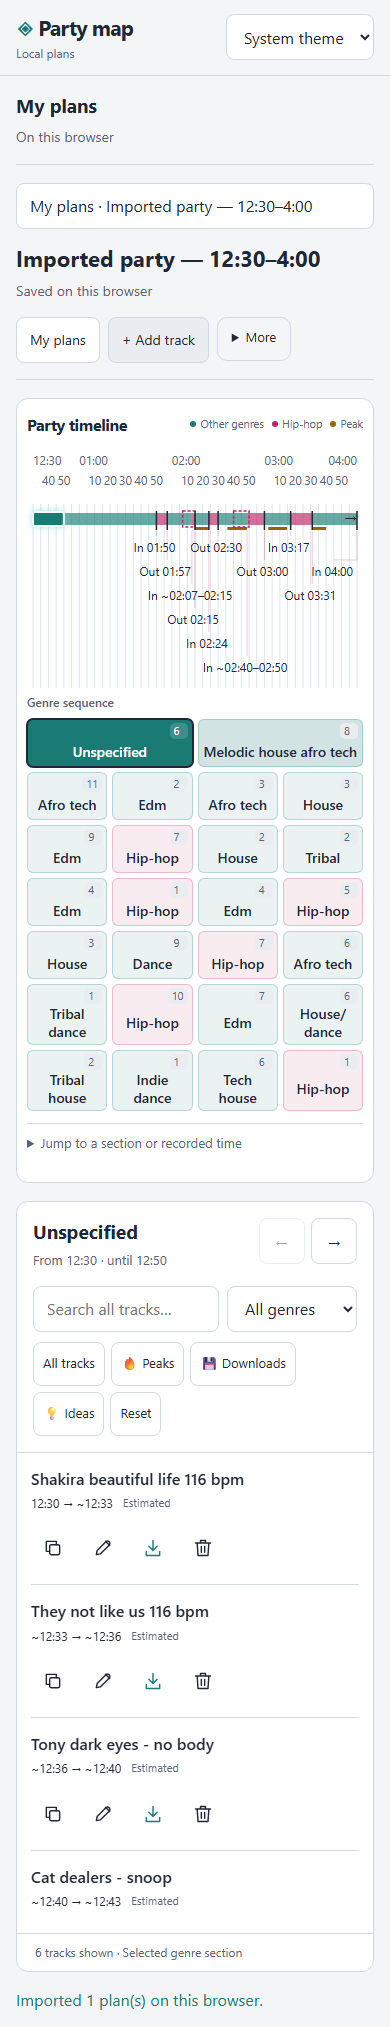
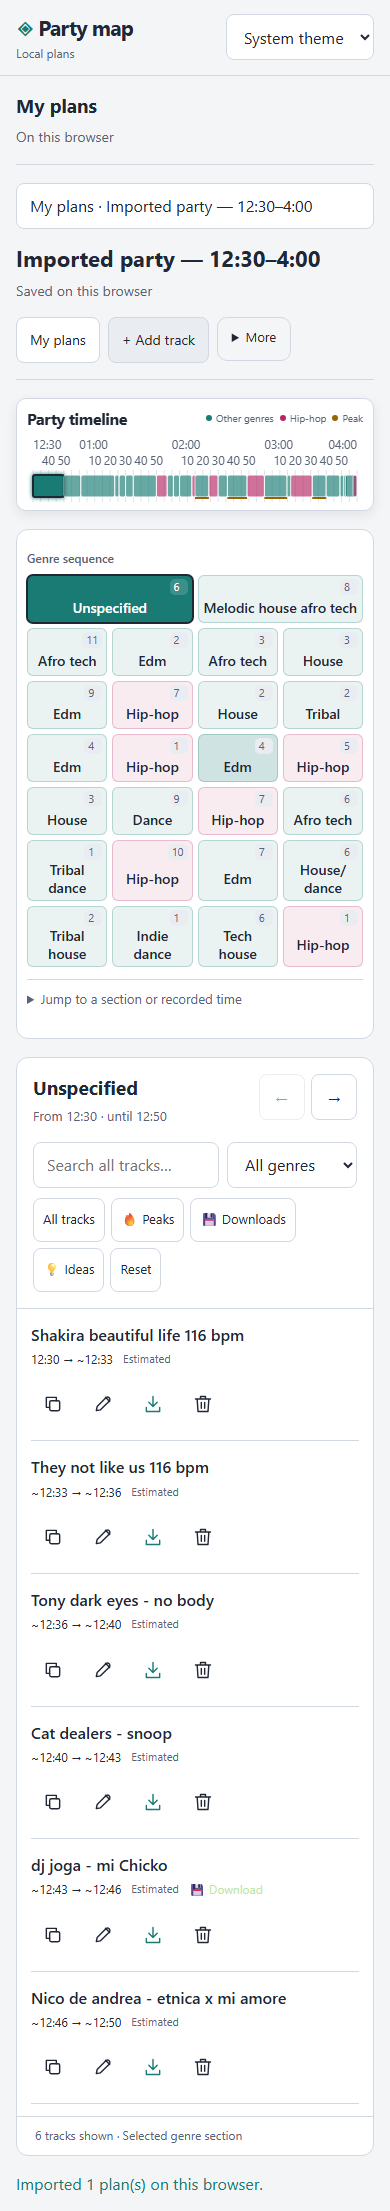
Make timeline ruler sticky, selectable and responsive to track scrolling

diff --git a/src/views/PartyPage.svelte b/src/views/PartyPage.svelte
@@ -2,91 +2,69 @@
   import { onMount } from 'svelte';
   import {formatTime} from '../lib/documents';
   import type { Model } from '../lib/parser';
-  import { annotationLanes, boundary, clock, fullClock, color, hipChanges, isHip, overviewRuns, peakRuns, position } from '../lib/timeline';
+  import { boundary, changeTime, fullClock, color, isHip, position } from '../lib/timeline';
   export let model: Model;
   export let selected: number;
-  export let active: boolean;
+  export let focused = false;
+  export let resetScale: () => void = () => {};
   export let select: (id: number, trackId?: number) => void;
   let mapWidth = 1000;
-  let measure: ((text: string) => number) | undefined;
+  let dock: HTMLElement;
   onMount(() => {
-    const context = document.createElement('canvas').getContext('2d');
-    if (context) {
-      context.font = '12px system-ui, sans-serif';
-      measure = text => context.measureText(text).width + 4;
-    }
+    const parent = dock.closest<HTMLElement>('.cloud-plan');
+    const update = () => parent?.style.setProperty('--timeline-offset', (dock.getBoundingClientRect().height + 16) + 'px');
+    const observer = new ResizeObserver(update);observer.observe(dock);update();
+    return () => {observer.disconnect();parent?.style.removeProperty('--timeline-offset');};
   });
   $: width = Math.max(100, mapWidth - 12);
   $: start = model.blocks[0]?.start ?? 0;
   $: end = Math.max(start,...model.blocks.map(b=>b.end),...model.sections.map(s=>s.end));
-  $: flow = overviewRuns(model);
-  $: peaks = peakRuns(model);
-  $: changes = hipChanges(model);
-  $: annotations = annotationLanes(changes.map(c => ({ anchor: position(c.section.start, start, end, width), width: measure ? measure(c.label) : c.label.length * 8 })), width);
-  $: lanes = Math.max(0, ...annotations.map(a => a.lane + 1));
   $: gridStep = Math.max(5,Math.ceil((end-start)/2000/5)*5);
   $: hourStep = Math.max(60,Math.ceil(52/Math.max(.01,width/Math.max(1,end-start))/60)*60);
   $: step = width < 600 ? 10 : 5;
   $: minuteStep = Math.max(step,Math.ceil(14/Math.max(.01,width/Math.max(1,end-start))/step)*step);
+  $: ticks = !model.blocks.length ? [] : [start, ...Array.from({length:Math.max(0,Math.ceil(end/gridStep)-Math.floor(start/gridStep)-1)},(_,i)=>(Math.floor(start/gridStep)+i+1)*gridStep).filter(t=>t>start&&t<end),...(end>start?[end]:[])];
   $: hours = ticks.filter(t=>t===start||t===end||t%hourStep===0).filter(t=>t===start||t===end||position(t,start,end,width)>42&&width-position(t,start,end,width)>42);
   $: minutes = ticks.filter(t=>t!==start&&t!==end&&t%60!==0&&t%minuteStep===0);
-  $: rulerHeight = 58;
-  $: chartHeight = rulerHeight+34+lanes*24;
-  $: ticks = !model.blocks.length ? [] : [start, ...Array.from({ length: Math.max(0, Math.ceil(end / gridStep) - Math.floor(start / gridStep) - 1) }, (_, i) => (Math.floor(start / gridStep) + i + 1) * gridStep).filter(t => t > start && t < end), ...(end > start ? [end] : [])];
-  $: current = !active ? model.sections.find(s => s.id === selected) : undefined;
+  $: current = model.sections.find(s=>s.id===selected);
+  $: display = model.clock24?formatTime:fullClock;
+  $: next = current ? model.sections[current.id+1] : undefined;
+  $: ending = current ? next?.start===current.end?changeTime(next):current.end>current.start?(current.tracks.at(-1)?.explicitEnd!==undefined?'':'~')+display(current.end):'not recorded' : '';
 </script>
-<section class="overview" aria-labelledby="overview-heading">
+<section class="timeline-dock" bind:this={dock} aria-labelledby="overview-heading">
   <div class="timeline-head">
     <h2 id="overview-heading" tabindex="-1">Party timeline</h2>
     <div class="legend" aria-label="Genre colors"><span><i class="dot" style="--color:var(--cyan)"></i>Other genres</span><span><i class="dot" style="--color:var(--hip)"></i>Hip-hop</span><span><i class="dot" style="--color:var(--fire)"></i>Peak</span></div>
   </div>
   <div class="party-summary" bind:clientWidth={mapWidth}>
-    <svg viewBox={`-6 0 ${width + 12} ${chartHeight}`} style={`height:${chartHeight}px`} role="img" aria-label={`Estimated whole-party time scale, ${model.blocks[0]?.time ?? 'Time not noted'} to ${model.blocks.at(-1)?.time ?? 'Time not noted'}. ${changes.map(c => `${c.entering ? 'Into' : 'Out of'} hip-hop, ${boundary(c.section)}`).join('; ')}. Ending not recorded.`}>
+    <svg viewBox={'-6 0 '+(width+12)+' 66'} style="height:66px" role="group" aria-label="Party time ruler">
       {#if !model.blocks.length}<text class="tick" x="0" y="13">Time not noted</text>{/if}
-      {#if end>start&&width/(end-start)>=4}{#each Array.from({length:Math.max(0,Math.ceil(end)-Math.floor(start))},(_,i)=>Math.floor(start)+i).filter(t=>t>start&&t<end&&t%5!==0) as minute}<line class="minor-grid" x1={position(minute,start,end,width)} x2={position(minute,start,end,width)} y1={rulerHeight-6} y2={chartHeight}/>{/each}{/if}
-      {#each ticks as time}
-       <line class="ruler-grid" x1={position(time,start,end,width)} x2={position(time,start,end,width)} y1={rulerHeight-6} y2={chartHeight}/>
-      {/each}
-      {#each hours as time}
-        <text class="tick ruler-label hour-label" data-minute={time} x={position(time,start,end,width)} y="13" text-anchor={time===end?'end':'start'}>{model.clock24?formatTime(time):fullClock(time)}</text>
-      {/each}
-      {#each minutes as time}
-        <text class="tick ruler-label minute-label" data-minute={time} x={position(time,start,end,width)} y="33" text-anchor="middle">{String(Math.floor(time)%60).padStart(2,'0')}</text>
-      {/each}
-      {#each flow as run}
-        <rect x={position(run.start,start,end,width)} y={rulerHeight+3} width={position(run.end,start,end,width)-position(run.start,start,end,width)} height="12" fill={color(run.genre)} opacity=".65" />
-      {/each}
-      {#each peaks as peak}
-        <rect x={position(peak.start,start,end,width)} y={rulerHeight+17} width={Math.max(2,position(peak.end,start,end,width)-position(peak.start,start,end,width))} height="3" fill="var(--fire)" />
-      {/each}
-      {#if current}
-        <rect class="overview-selection" data-selected={current.id} x={Math.max(0,position(current.start,start,end,width)-1)} y={rulerHeight+2} width={Math.max(2,position(current.end,start,end,width)-position(current.start,start,end,width))} height="14" rx="2" fill={color(current.genre)} />
-      {/if}
-      {#each changes as change, i}
-        {@const a = annotations[i]}
-        {@const anchor = position(change.section.start,start,end,width)}
-        <g class="hip-change" data-entering={change.entering} aria-label={`${change.entering ? 'Into' : 'Out of'} hip-hop, ${boundary(change.section)}`}>
-          <title>{change.entering ? 'Into' : 'Out of'} hip-hop · {boundary(change.section)}{change.section.start === change.section.end ? ' · ending not noted' : ''}</title>
-          {#if !change.section.exact}
-            <rect class="uncertain-range" x={position(change.section.boundStart,start,end,width)} y={rulerHeight+1} width={Math.max(2,position(change.section.boundEnd,start,end,width)-position(change.section.boundStart,start,end,width))} height="16" />
-          {:else}<line class="switch-marker" x1={anchor} x2={anchor} y1={rulerHeight+1} y2={rulerHeight+20} />{/if}
-          <path class="switch-guide" d={`M${anchor},${rulerHeight+21} V${rulerHeight+26+a.lane*24} L${a.left+a.width/2},${rulerHeight+26+a.lane*24}`} />
-          <text class="switch-label" x={a.left} y={rulerHeight+42+a.lane*24}>{change.label}</text>
+      {#each ticks as time}<line class="ruler-grid" x1={position(time,start,end,width)} x2={position(time,start,end,width)} y1="34" y2="66"/>{/each}
+      {#if end>start&&width/(end-start)>=4}{#each Array.from({length:Math.max(0,Math.ceil(end)-Math.floor(start))},(_,i)=>Math.floor(start)+i).filter(t=>t>start&&t<end&&t%5!==0) as minute}<line class="minor-grid" x1={position(minute,start,end,width)} x2={position(minute,start,end,width)} y1="34" y2="66"/>{/each}{/if}
+      {#each hours.filter(t=>!focused||t%60===0) as time}<text class="tick ruler-label hour-label" data-minute={time} x={position(time,start,end,width)} y="13" text-anchor={time===end?'end':'start'}>{display(time)}</text>{/each}
+      {#if !focused}{#each minutes as time}<text class="tick ruler-label minute-label" data-minute={time} x={position(time,start,end,width)} y="29" text-anchor="middle">{String(Math.floor(time)%60).padStart(2,'0')}</text>{/each}{/if}
+      {#each model.sections as section}
+        {@const left=position(section.start,start,end,width)}
+        {@const barWidth=Math.max(4,position(section.end,start,end,width)-left)}
+        <g class="ruler-section" class:lit={selected===section.id} data-ruler-section={section.id} role="button" tabindex="0" aria-label={section.genre+', '+boundary(section)+', open '+section.tracks.length+' tracks'} aria-pressed={selected===section.id} onclick={()=>select(section.id)} onkeydown={e=>{if(e.key==='Enter'||e.key===' '){e.preventDefault();select(section.id);}}}>
+          <title>{section.genre} · {boundary(section)} · {section.tracks.length} tracks</title>
+          <rect class="ruler-hit" x={Math.min(width-4,left)} y="34" width={barWidth} height="32" fill="transparent"/>
+          <rect class="ruler-bar" x={Math.min(width-4,left)} y="39" width={barWidth} height="22" rx="2" fill={color(section.genre)}/>
+          {#if section.tracks.some(t=>t.isBanger)}<line x1={left} x2={Math.min(width,left+barWidth)} y1="62" y2="62" stroke="var(--fire)" stroke-width="2"/>{/if}
         </g>
       {/each}
-      {#if model.sections.some(s => s.end === s.start)}<text class="open-end" x={width} y={rulerHeight+13} text-anchor="end"><title>Ending not recorded</title>→</text>{/if}
     </svg>
   </div>
+  {#if focused&&current}<div class="ruler-focus"><span dir="auto">{current.genre}</span><span class="selected-times" dir="ltr">In {changeTime(current)} · Out {ending}</span><button class="scale-reset" aria-label="Show full time scale" onclick={resetScale}>Full scale</button></div>{/if}
+</section>
+<section class="overview" aria-label="Genre sections">
   <h3 class="sequence-heading">Genre sequence</h3>
   <div class="section-buttons" role="group" aria-label="Genre sequence">
     {#each model.sections as s}
-      <button data-section={s.id} class:wide={s.genre.length > 15 || s.genre === 'Unspecified'} class:terminal-section={s.start === s.end} class:lit={!active && selected === s.id} style={`--genre:${color(s.genre)}`} aria-label={`${s.genre}, ${boundary(s)}, open ${s.tracks.length} tracks`} aria-pressed={!active && selected === s.id} title={`${boundary(s)}${s.start === s.end ? ' · ending not noted' : ''}`} onclick={() => select(s.id)}>
-        <span class="genre-name" dir="auto">{isHip(s.genre) ? 'Hip-hop' : s.genre}</span><span class="section-count" aria-label={s.tracks.length+' tracks'}>{s.tracks.length}</span>
+      <button data-section={s.id} class:wide={s.genre.length>15||s.genre==='Unspecified'} class:terminal-section={s.start===s.end} class:lit={selected===s.id} style={'--genre:'+color(s.genre)} aria-label={s.genre+', '+boundary(s)+', open '+s.tracks.length+' tracks'} aria-pressed={selected===s.id} title={boundary(s)+(s.start===s.end?' · ending not noted':'')} onclick={()=>select(s.id)}>
+        <span class="genre-name" dir="auto">{isHip(s.genre)?'Hip-hop':s.genre}</span><span class="section-count" aria-label={s.tracks.length+' tracks'}>{s.tracks.length}</span>
       </button>
     {/each}
   </div>
-  <details><summary>Jump to a section or recorded time</summary>
-    <p class="timing-key">Dotted outline: hip-hop changes somewhere within that time range. The notes do not give an exact minute.</p>
-    <div class="time-jumps" role="group" aria-label="Every exact time marker from the notes">{#each model.blocks.filter(b => b.tracks.length) as b}<button onclick={() => select(b.tracks[0].sectionId,b.tracks[0].id)}>{b.time}</button>{/each}</div>
-  </details>
+  <details><summary>Jump to a section or recorded time</summary><div class="time-jumps" role="group" aria-label="Every exact time marker from the notes">{#each model.blocks.filter(b=>b.tracks.length) as b}<button onclick={()=>select(b.tracks[0].sectionId,b.tracks[0].id)}>{b.time}</button>{/each}</div></details>
 </section>

diff --git a/tests/browser/planner.spec.ts b/tests/browser/planner.spec.ts
@@ -2,15 +2,32 @@ import {test,expect} from './fixtures';import {mock,login} from './cloud-fixture
 async function start(page:any,name:string){const offline=name.startsWith('offline');if(!offline)await mock(page);await page.goto(offline?pathToFileURL(resolve('dist/party-map.html')).href:'http://127.0.0.1:4180');if(!offline)await login(page,'a@example.test');const toggle=page.locator('.mobile-plans');if(await toggle.isVisible())await toggle.click();}
 async function original(page:any){await page.getByRole('button',{name:'Import original party'}).click();await page.getByRole('button',{name:/Import to (account|browser)/}).click();}
 test('empty-first shell, original template, full ruler and timeline above tracks',async({page},info)=>{
- await start(page,info.project.name);await expect(page.locator('.overview')).toHaveCount(0);await original(page);await expect(page.locator('.section-buttons button')).toHaveCount(26);await expect(page.locator('.hip-change')).toHaveCount(11);await expect(page.locator('.uncertain-range')).toHaveCount(2);await expect(page.locator('.ruler-label')).toHaveCount(info.project.name.includes('phone')?22:43);await expect(page.locator('.tick').first()).toHaveText('12:30');await expect(page.locator('.hour-label').last()).toHaveText('04:00');
+ await start(page,info.project.name);await expect(page.locator('.overview')).toHaveCount(0);await original(page);await expect(page.locator('.section-buttons button')).toHaveCount(26);await expect(page.locator('.ruler-section')).toHaveCount(26);await expect(page.locator('.hip-change,.uncertain-range')).toHaveCount(0);await expect(page.locator('.ruler-label')).toHaveCount(info.project.name.includes('phone')?22:43);await expect(page.locator('.tick').first()).toHaveText('12:30');await expect(page.locator('.hour-label').last()).toHaveText('04:00');
  const minuteRows=await page.locator('.minute-label').evaluateAll(labels=>new Set(labels.map(l=>Math.round(l.getBoundingClientRect().top))).size);expect(minuteRows).toBe(1);
- const geometry=await page.locator('.overview').evaluate(el=>{const labels=[...el.querySelectorAll('.ruler-label')].map(e=>e.getBoundingClientRect());return {positions:[...el.querySelectorAll('.ruler-label')].map(e=>({text:e.textContent,x:e.getBoundingClientRect().x,y:e.getBoundingClientRect().y,w:e.getBoundingClientRect().width,h:e.getBoundingClientRect().height})),overflow:document.documentElement.scrollWidth>innerWidth,collision:labels.some((a,i)=>labels.slice(i+1).some(b=>a.left<b.right&&a.right>b.left&&a.top<b.bottom&&a.bottom>b.top))};});expect(geometry.overflow).toBe(false);expect(geometry.collision,JSON.stringify(geometry)).toBe(false);
+ const geometry=await page.locator('.timeline-dock').evaluate(el=>{const labels=[...el.querySelectorAll('.ruler-label')].map(e=>e.getBoundingClientRect());return {positions:[...el.querySelectorAll('.ruler-label')].map(e=>({text:e.textContent,x:e.getBoundingClientRect().x,y:e.getBoundingClientRect().y,w:e.getBoundingClientRect().width,h:e.getBoundingClientRect().height})),overflow:document.documentElement.scrollWidth>innerWidth,collision:labels.some((a,i)=>labels.slice(i+1).some(b=>a.left<b.right&&a.right>b.left&&a.top<b.bottom&&a.bottom>b.top))};});expect(geometry.overflow).toBe(false);expect(geometry.collision,JSON.stringify(geometry)).toBe(false);
  if(info.project.name==='offline-desktop')await page.screenshot({path:'party-map-track-first-desktop.png',fullPage:true});if(info.project.name==='offline-phone')await page.screenshot({path:'party-map-track-first-phone.png',fullPage:true});
- await expect(page.locator('.switch-label').filter({hasText:'Out 03:31'})).toHaveCount(1);await expect(page.locator('.track-time').first()).toHaveText('12:30 → ~12:33');await page.locator('#detail-title').evaluate(el=>el.scrollIntoView({block:'start'}));await expect(page.getByRole('button',{name:'Back to party timeline'})).toBeVisible();await page.getByRole('button',{name:'Back to party timeline'}).click();
- const last=page.locator('.section-buttons button').last();await last.focus();await last.press('Enter');await expect(last).toHaveClass(/lit/);await expect(page.locator('#tracks .title')).toHaveText('Me pregunto');await page.getByRole('button',{name:'All tracks',exact:true}).click();await expect(page.locator('#tracks .title')).toHaveCount(126);await expect(page.locator('.track-dialog')).not.toBeVisible();
+ await expect(page.locator('.track-time').first()).toHaveText('12:30 → ~12:33');
+
+ const last=page.locator('.section-buttons button').last();await last.focus();await last.press('Enter');await expect(last).toHaveClass(/lit/);await expect(page.locator('.minute-label')).toHaveCount(0);await expect(page.locator('.selected-times')).toContainText('Out not recorded');await expect(page.locator('#tracks .title')).toHaveText('Me pregunto');await page.getByRole('button',{name:'All tracks',exact:true}).click();await expect(page.locator('#tracks .title')).toHaveCount(126);await expect(page.locator('.track-dialog')).not.toBeVisible();
 });
 test('track dialog validation, same-genre merge, multilingual copy/search and theme persistence',async({page},info)=>{
  await start(page,info.project.name);await page.getByLabel('New plan name',{exact:true}).fill('New party');await page.getByRole('button',{name:'Create plan',exact:true}).click();await page.getByRole('button',{name:'+ Add track',exact:true}).click();await page.getByLabel('Track name',{exact:true}).fill('שלום & Вечер');await page.getByLabel('Genre',{exact:true}).fill('House');await page.getByLabel('Start time',{exact:true}).fill('01:00');await page.getByLabel('End time (optional)',{exact:true}).fill('00:59');await page.locator('.track-dialog').getByRole('button',{name:'Add track',exact:true}).click();await expect(page.locator('.track-dialog [role=alert]')).toBeVisible();await page.getByLabel('End time (optional)',{exact:true}).fill('');await page.locator('.track-dialog').getByRole('button',{name:'Add track',exact:true}).click();await expect(page.locator('.track-dialog')).not.toBeVisible();
  const search=page.getByRole('link',{name:'Search Google for שלום & Вечер download',exact:true});expect(new URL((await search.getAttribute('href'))!).searchParams.get('q')).toBe('שלום & Вечер download');await page.getByRole('button',{name:'+ Add track',exact:true}).click();await page.getByLabel('Track name',{exact:true}).fill('Second');await page.getByLabel('Genre',{exact:true}).fill('house');await page.getByLabel('Start time',{exact:true}).fill('01:05');await page.locator('.track-dialog').getByRole('button',{name:'Add track',exact:true}).click();await expect(page.locator('.section-buttons button')).toHaveCount(1);
  await page.getByLabel('Color theme').selectOption('light');await expect(page.locator('html')).toHaveAttribute('data-theme','light');await page.reload();await expect(page.locator('html')).toHaveAttribute('data-theme','light');await expect(page.locator('.plan-empty')).toBeVisible();
+});
+
+test('sticky ruler selects tracks and follows all-track scrolling without filtering',async({page},info)=>{
+ await start(page,info.project.name);await original(page);
+ const dock=page.locator('.timeline-dock');expect(await dock.evaluate(el=>el.getBoundingClientRect().height)).toBeLessThan(180);
+ await page.locator('[data-ruler-section="7"]').press('Enter');
+ await expect(page.locator('#detail-title')).toHaveText('Hip hop');await expect(page.locator('.minute-label')).toHaveCount(0);await expect(page.locator('.selected-times')).toHaveText('In 01:50 · Out 01:57');
+ expect(await page.locator('.hour-label').evaluateAll(labels=>labels.every(el=>Number(el.getAttribute('data-minute'))%60===0))).toBe(true);
+ expect(await dock.evaluate(el=>Math.abs(el.getBoundingClientRect().top))).toBeLessThan(2);
+ expect(await page.locator('#detail-title').evaluate(el=>el.getBoundingClientRect().top-document.querySelector('.timeline-dock')!.getBoundingClientRect().bottom)).toBeGreaterThanOrEqual(8);
+ await page.getByRole('button',{name:'All tracks',exact:true}).click();await expect(page.locator('#tracks .title')).toHaveCount(126);
+ const fifth=page.locator('#tracks [data-section-id="17"]').first();await fifth.evaluate(el=>el.scrollIntoView({block:'start'}));await expect(page.locator('[data-ruler-section="17"]')).toHaveAttribute('aria-pressed','true');
+ await expect(page.locator('#tracks .title')).toHaveCount(126);await expect(page.getByRole('button',{name:'All tracks',exact:true})).toHaveAttribute('aria-pressed','true');expect(await dock.evaluate(el=>Math.abs(el.getBoundingClientRect().top))).toBeLessThan(2);
+ await page.locator('#tracks [data-section-id="3"]').first().evaluate(el=>el.scrollIntoView({block:'start'}));await expect(page.locator('[data-ruler-section="3"]')).toHaveAttribute('aria-pressed','true');await expect(page.locator('.selected-times')).toContainText('~01:23–01:30');
+ await page.getByRole('button',{name:'Show full time scale'}).click();await expect(page.locator('.minute-label')).not.toHaveCount(0);
+ await page.locator('[data-ruler-section="25"]').press('Space');await expect(page.locator('#tracks .title')).toHaveText('Me pregunto');await expect(page.locator('.selected-times')).toContainText('Out not recorded');await expect(page.locator('.track-dialog')).not.toBeVisible();
 });

diff --git a/src/views/CloudPlanWorkspace.svelte b/src/views/CloudPlanWorkspace.svelte
@@ -1,11 +1,10 @@
 <script lang="ts">
-  import { onMount } from 'svelte';
+  import { onMount, tick } from 'svelte';
   import type { AccountService, AccountUser, PrivatePlan } from '../lib/account';
   import { accountError } from '../lib/account';
   import { blankDocument, documentFromNotes, documentModel, songEvent, validateDocument, type PlanDocument, type PlanEvent } from '../lib/documents';
-  import { emptyFilters, filterActive } from '../lib/search';
+  import { emptyFilters } from '../lib/search';
   import { copyTitle } from '../lib/clipboard';
-  import BackToTimeline from '../components/BackToTimeline.svelte';
   import TrackDialog from '../components/TrackDialog.svelte';
   import {planSync} from '../lib/plan-sync';
   import {downloadBackup} from '../lib/backups';
@@ -25,6 +24,7 @@
   let error = '', status = '', storageAvailable = true, alive = true;
   let pending: {id:string;revision:number;document:PlanDocument} | null = null;
   let selected = 0, allTracks = false, filters = emptyFilters();
+  let rulerFocused = false;
   let heading: HTMLHeadingElement | undefined;
   let importDialog:HTMLDialogElement | undefined;
   let importText='', importName='', importNew=true, importError='';
@@ -54,7 +54,14 @@
   function removeSong(id:number) {const e=findEvent(id);if(e){const index=document.events.findIndex(record=>record.uid===e.uid);undo={event:structuredClone(e),previous:document.events[index-1]?.uid??null,next:document.events[index+1]?.uid??null};commit({...document,events:document.events.filter(record=>record.uid!==e.uid)});}}
   function undoRemoval(){if(!undo)return;const events=[...document.events];let index=events.findIndex(e=>e.uid===undo!.next);if(index<0){const previous=events.findIndex(e=>e.uid===undo!.previous);index=previous<0?events.length:previous+1;}events.splice(index,0,undo.event);commit({...document,events});undo=null;}
   async function rename() {if(!renameName.trim() || saving)return;saving=true;try{await service.renamePlan(plan.id,renameName.trim());if(alive){plan={...plan,name:renameName.trim()};renaming=false;status='Plan renamed';onChanged();}}catch(e){if(alive)error=accountError(e);}finally{if(alive)saving=false;}}
-  function select(id:number){selected=id;allTracks=false;filters=emptyFilters();}
+  async function select(id:number){
+    selected=id;rulerFocused=true;allTracks=false;filters=emptyFilters();await tick();
+    const parent=heading?.closest<HTMLElement>('.cloud-plan');
+    const dock=parent?.querySelector('.timeline-dock');
+    if(dock)parent?.style.setProperty('--timeline-offset',(dock.getBoundingClientRect().height+16)+'px');
+    heading?.scrollIntoView({block:'start',behavior:'instant'});heading?.focus({preventScroll:true});
+  }
+  function followSection(id:number){selected=id;rulerFocused=true;}
   async function copy(track:Track){try{await copyTitle(track.title);status='Track name copied.';}catch{error='Copy unavailable. Select the track name and copy it manually.';}}
   async function copyAsPlan() {
     if(saving)return;
@@ -84,11 +91,10 @@
   {#if !storageAvailable}<p role="status">Browser storage is unavailable. Offline recovery lasts only for this session. Export pending changes before closing.</p>{/if}
   {#if loading}<p role="status">Loading plan…</p>
   {:else if !error || document.events.length}
-    {#if model.tracks.length}<PartyPage {model} {selected} active={allTracks || filterActive(filters)} {select}/>{/if}
-    <TracksPage {model} {selected} {allTracks} showAll={()=>{allTracks=true;filters=emptyFilters();}} bind:filters {storageAvailable} emptyHint="Add your first track or import notes" {select} save={correct} {updateFlags} {removeSong} {copy} editTrack={t=>trackDialog.open(findEvent(t.id),{genre:t.genre,peak:t.isBanger})} bind:heading/>
+    {#if model.tracks.length}<PartyPage {model} {selected} focused={rulerFocused} resetScale={()=>rulerFocused=false} {select}/>{/if}
+    <TracksPage onSectionVisible={followSection} {model} {selected} {allTracks} showAll={()=>{allTracks=true;filters=emptyFilters();}} bind:filters {storageAvailable} emptyHint="Add your first track or import notes" {select} save={correct} {updateFlags} {removeSong} {copy} editTrack={t=>trackDialog.open(findEvent(t.id),{genre:t.genre,peak:t.isBanger})} bind:heading/>
   {:else}<button onclick={()=>load()}>Retry opening plan</button>{/if}
   <dialog bind:this={clockDialog} aria-labelledby="clock-choice-title"><h2 id="clock-choice-title">Match your note times</h2><p>Choose when the first recorded time means. This aligns your notes with new track times.</p><div class="dialog-actions"><button onclick={()=>clockDialog.close()}>Cancel</button><button onclick={()=>{commit(alignNoteClock(document,false));clockDialog.close();trackDialog.open();}}>{formatTime((model.blocks.find(b=>b.time!=='Unscheduled')?.start??0)%720)} · night / morning</button><button onclick={()=>{commit(alignNoteClock(document,true));clockDialog.close();trackDialog.open();}}>{formatTime((model.blocks.find(b=>b.time!=='Unscheduled')?.start??0)%720+720)} · afternoon / evening</button></div></dialog>
-  <BackToTimeline/>
   <TrackDialog draftKey={'party-map-track-draft-'+(service.cacheNamespace??'default')+'-'+user.id+'-'+plan.id} bind:this={trackDialog} genres={[...knownGenres,...model.tracks.map(t=>t.genre)]} onSave={saveTrack}/>
   <dialog bind:this={importDialog} aria-labelledby="cloud-import-title">
     <h2 id="cloud-import-title">Import notes into your account</h2>

diff --git a/src/views/TracksPage.svelte b/src/views/TracksPage.svelte
@@ -1,5 +1,5 @@
 <script lang="ts">
-  import { tick } from 'svelte';
+  import { tick, onMount } from 'svelte';
   import type { Model, Track } from '../lib/parser';
   import { sectionRange,trackTiming } from '../lib/timeline';
   import { filterActive, googleSearch, matches, type Filters } from '../lib/search';
@@ -17,11 +17,27 @@
   export let updateFlags: ((id:number,flags:{isBanger:boolean;isToDownload:boolean;isMyIdea:boolean})=>void) | undefined = undefined;
   export let removeSong: ((id:number)=>void) | undefined = undefined;
   export let editTrack:((track:Track)=>void)|undefined=undefined;
+  export let onSectionVisible: (id:number)=>void = ()=>{};
   let draftPeak=false,draftDownload=false,draftIdea=false;
   let editing: number | null = null;
   let draft = '';
   let editor: HTMLInputElement;
   let list: HTMLOListElement;
+  onMount(() => {
+    let frame=0;
+    const update=()=>{
+      frame=0;
+      const dock=list.closest('.cloud-plan')?.querySelector('.timeline-dock');
+      const threshold=(dock?.getBoundingClientRect().bottom??0)+16;
+      if(list.getBoundingClientRect().top>threshold||list.getBoundingClientRect().bottom<threshold)return;
+      // Ignore a subpixel remnant of the preceding row at the reading edge.
+      const row=[...list.querySelectorAll<HTMLElement>('[data-section-id]')].find(el=>el.getBoundingClientRect().bottom>threshold+1);
+      if(row&&row.getBoundingClientRect().top<window.innerHeight)onSectionVisible(Number(row.dataset.sectionId));
+    };
+    const schedule=()=>{if(!frame)frame=requestAnimationFrame(update);};
+    window.addEventListener('scroll',schedule,{passive:true});window.addEventListener('resize',schedule);
+    return()=>{window.removeEventListener('scroll',schedule);window.removeEventListener('resize',schedule);cancelAnimationFrame(frame);};
+  });
   $: active = filterActive(filters);
   $: browsing = allTracks || active;
   $: section = model.sections[selected];
@@ -61,7 +77,7 @@
   <ol id="tracks" class="track-list" bind:this={list}>
     {#each visible as t (t.id)}
       {@const timing=trackTiming(t)}
-      <li class="track" data-track={t.id}>
+      <li class="track" data-track={t.id} data-section-id={t.sectionId}>
         <div><p class="title" dir="auto">{t.title}</p><div class="tags">
           <span class="track-time" dir="ltr" title={timing.estimated?'Estimated from the track count between recorded times; ~ means estimated.':undefined}>{timing.text}</span>{#if timing.estimated}<span class="estimate-tag">Estimated</span>{/if}{#if browsing}<span dir="auto">{t.genre}</span>{/if}
           {#if t.isBanger}<span class="peak">🔥 Peak</span>{/if}

diff --git a/src/styles/app.css b/src/styles/app.css
@@ -170,3 +170,18 @@ dialog .dialog-actions{display:flex;flex-wrap:wrap;gap:10px;justify-content:flex
 .track{grid-template-columns:minmax(0,1fr) auto;gap:12px}.edit-form{grid-column:1/-1}.actions{gap:4px}.actions button,.actions a.action{width:44px;height:44px;min-height:44px;padding:10px;display:inline-flex;align-items:center;justify-content:center}.actions svg{width:20px;height:20px;fill:none;stroke:currentColor;stroke-width:1.7;stroke-linecap:round;stroke-linejoin:round}.section-count{font-size:12px;min-width:22px;border-radius:5px;padding:1px 5px;background:var(--raised);color:var(--muted);font-variant-numeric:tabular-nums}.section-buttons button.lit .section-count{color:inherit;background:color-mix(in srgb,var(--panel) 16%,transparent)}
 @media(max-width:850px){.track{grid-template-columns:minmax(0,1fr)}.actions{grid-column:1;gap:6px;margin-top:2px}.section-buttons button{padding-top:20px}.section-count{position:absolute;top:3px;right:4px;font-size:11px;min-width:18px;padding:0 4px}}
 @media(max-width:850px){.account-area:has(.cloud-plan){padding:0}}
+.timeline-dock{position:sticky;top:0;z-index:30;min-width:0;padding:10px 16px;background:var(--panel);border:1px solid var(--line);border-radius:10px;box-shadow:0 4px 12px var(--shadow)}
+.timeline-dock .timeline-head{margin-bottom:6px}
+.timeline-dock .timeline-head h2{font-size:16px}
+.ruler-section{cursor:pointer;outline:none}
+.ruler-bar{opacity:.65;stroke:var(--panel);stroke-width:1}
+.ruler-section:hover .ruler-bar{opacity:1}
+.ruler-section.lit .ruler-bar{opacity:1;stroke:var(--text);stroke-width:2;filter:drop-shadow(0 0 2px var(--cyan))}
+.ruler-section:focus-visible .ruler-bar{stroke:var(--text);stroke-width:3}
+.ruler-focus{display:flex;gap:6px 12px;align-items:center;flex-wrap:wrap;font-size:12px;line-height:1.35;margin-top:4px}
+.ruler-focus>span:first-child{font-weight:600}
+.selected-times{font-variant-numeric:tabular-nums;color:var(--muted)}
+.scale-reset{min-height:32px;padding:4px 8px;margin-inline-start:auto;font-size:12px}
+.cloud-plan #detail-title,.cloud-plan #detail,.cloud-plan .track{scroll-margin-top:var(--timeline-offset,160px)}
+.cloud-plan .track-list{max-height:none;overflow:visible;padding-bottom:12px}
+@media(max-width:600px){.timeline-dock{padding:8px 10px}.timeline-dock .legend{font-size:10px;gap:6px}.ruler-focus{gap:4px 8px}}

diff --git a/backlog.md b/backlog.md
@@ -962,3 +962,12 @@ AC: Direct requests cannot bypass password policy; ordinary users can verify/rec
 AC: Hosted login runs over HTTPS, malicious notes/titles cannot execute script, and no private signing/admin key ships to clients. Do not claim HttpOnly cookies for the existing browser-storage/file-origin design or add an unapproved application server.
 
 E20-S3 verification: 33 unit/database/packaging and 54 browser checks pass. Actual imported plan clock was corrected to 00:30–04:00 through the signed-in UI and restored after reload. Full times sit above a single minute row. E19 save acknowledgement now compares canonical documents and has a jsonb-order regression.
+
+## E22 — Compact sticky timeline navigation · P1
+
+- E22-S1 · P1 · Done: Clickable ruler sections. T1 remove note lanes/dotted areas; T2 keyboard/touch intervals and large alternatives; T3 selected start/end evidence and full-scale reset. AC: every section reachable; unknown/estimated times stay honest; no label overlap or horizontal page overflow.
+- E22-S2 · P1 · Done: Persistent ruler. T1 sticky dock; T2 measured scroll offsets; T3 click-to-tracks; T4 remove redundant floating return button. AC: ruler remains visible through the final track; track heading is visible below it on phone/short windows.
+- E22-S3 · P1 · Done: Scroll-follow highlight. T1 passive frame-throttled tracking; T2 preserve All tracks/search/filters; T3 cleanup on plan switch. AC: forward/back scrolling updates the section without filtering, editing, saving or changing scroll position.
+- E22-S4 · P1 · Done: QA/delivery. T1 desktop/phone/short regressions; T2 direct-file checks; T3 docs/screenshots/GitHub. AC: focused hours, click/keyboard navigation, sticky persistence, gaps and unknown endings verified; builds/checks pass.
+
+E22 delivery evidence: 60 Chromium workflows pass at desktop/phone/short sizes across site/offline/connected outputs; 33 Node/model/database/packaging checks pass. Zero Svelte errors/warnings; all three builds succeed. The signed-in original plan was opened and the ruler selected Hip hop at 01:50–01:57, scrolled its heading below the top dock, and hid minute labels. UI-only navigation did not alter cloud tracks. Full-size genre controls remain available for narrow bars. Native screen-reader review remains tracked under the wider release gates.

diff --git a/plan.md b/plan.md
@@ -347,3 +347,9 @@ Local PostgreSQL tests pass for ownership/raw-write denial, missing writer Auth 
 Retain managed Supabase email/password accounts; custom JWT issuance/static API-key examples are not adopted. Implemented client session-storage/configuration hardening and a 12-character new-password rule. Server password policy, verified public email ownership/recovery, rate-limit review, hosted HTTPS/CSP and real staging account isolation are explicit public-release gates in E15. The current confirmation-off standalone setup remains unchanged; no admin setting, signing key or credential was altered. See docs/supabase-setup.md for required dashboard actions.
 
 User-confirmed clock correction: original 12:30 means 00:30; actual imported account document now restores 00:30–04:00 after reload, retaining original marker provenance. The legacy bundled notes remain a preserved source; ambiguous imports explicitly request clock alignment before adding current-time tracks. Supabase jsonb key order is canonicalized before save acknowledgement.
+
+## M11 — Sticky interactive ruler (2026-10-12)
+
+Replace hip-hop annotation lanes and dotted ranges with individual selectable genre intervals in a compact sticky ruler. Keep the full scale initially; after activation show whole-hour anchors and only the selected section's start/end evidence. Preserve uncertainty as ~ ranges and unknown final endings. Retain full-size genre controls as touch/keyboard alternatives for narrow bars. Click selects tracks and scrolls below the measured sticky header. All tracks scrolling updates the visible-section highlight without changing filters or saving data. Use passive frame-throttled scroll tracking and cleanup on plan switch. Remove the floating return button. Verify desktop, phone, short viewport and both self-contained builds before delivery.
+
+M11 delivered: individual ruler intervals replace hip-hop annotations/dotted ranges; the dock stays visible through the track list. Focused timestamps, full-scale reset, click/keyboard scrolling and passive scroll-follow are implemented. Measured offsets prevent obscured headings; one-pixel tolerance avoids stale highlights at fractional row boundaries. Automated evidence: 60 browser workflows and 33 model/database/packaging checks pass; final builds and Svelte check pass.

diff --git a/README.md b/README.md
@@ -9,8 +9,8 @@ A track-first DJ planner built with Astro and Svelte. Open a plan, see the whole
 - Empty initial workspace with searchable My plans, desktop rail/collapse and mobile plan switcher.
 - Compact **Add track** dialog: name, manual genre with existing-genre suggestions, current-time default you can override, and optional ending.
 - Automatic contiguous genre sections. No manual Add section step. An explicit ending before the next track leaves a real blank gap; omitted endings follow the next known start.
-- Two-row ruler: full hours above, minute numbers below on one line. Five-minute desktop / ten-minute phone labels, full hip-hop entry/exit times, and a full-height grid with finer lines when space permits.
-- Genre buttons show track counts; track rows show exact/estimated times without numbering. Icon copy/edit/Google download search/remove controls retain accessible names and tooltips. All tracks, filters, undo and a floating Back to timeline action remain available.
+- Compact sticky ruler stays visible above tracks. Every genre interval is clickable; selection shows whole-hour anchors and the selected start/end times, then scrolls to its tracks. All tracks scrolling highlights the visible genre section. Full scale restores five-minute desktop / ten-minute phone minute labels. Estimated boundaries retain ~ and unknown endings stay explicit.
+- Genre buttons show track counts; track rows show exact/estimated times without numbering. Icon copy/edit/Google download search/remove controls retain accessible names and tooltips. All tracks, filters and undo remain available; the persistent ruler replaces the floating return button.
 - Supabase email/password login and private plans. Committed edits save automatically with revisions, stable retry IDs and recoverable conflict copies.
 - Cached complete plans and pending changes reopen offline in the connected HTML. Reconnect retries under the original account; denied/quota-limited storage is reported honestly.
 - Original pasted/.txt notes import with preview. **Import original party** creates a new plan from the 126-track set.

diff --git a/docs/verification.md b/docs/verification.md
@@ -109,3 +109,7 @@ The user reports that a real plan was created successfully. This establishes suc
 - Real PostgreSQL jsonb ordering exposed repeated save attempts despite successful writes. Comparing validated canonical documents fixes acknowledgement; a regression proves reordered response keys produce exactly one save. No tracks were added/removed during the clock correction.
 - Own-account backup was downloaded and schema-validated before clock correction, retaining a recovery snapshot. Private backup/session/screenshot data stay outside Git.
 - Remaining gates include real hosted two-account/anonymous API checks, authored end-gap reconnect coverage, native assistive-technology review, IndexedDB capacity and private Realtime push. Active-plan refresh currently polls every 15 seconds and on focus.
+
+## E22 — Compact sticky ruler (2026-10-12)
+
+The current suite has 60 passing Chromium workflows and 33 passing Node/model/database/packaging checks. New responsive cases verify each section is keyboard-accessible, selection removes minute labels while retaining whole-hour anchors, selected ranges remain marked ~, the terminal ending stays unknown, and the track heading lands below the sticky dock. All-track scrolling forward/back updates section highlighting without filtering the 126 results; full-scale reset restores minute labels. Dock height is under 180px in the checked initial desktop/phone layouts. Website and both HTML builds pass; Svelte check reports zero errors/warnings. Real signed-in UI navigation verifies 01:50–01:57 selection and top-positioned dock without database writes. Previous screenshots and floating-return descriptions are superseded by this dock. Native assistive-technology and hosted account-isolation release gates remain unchanged.

diff --git a/docs/track-first-requirements.md b/docs/track-first-requirements.md
@@ -85,3 +85,7 @@ The orchestrator owns order/scope; UI/UX owns modal, plan navigation and ruler p
 ## First release acceptance
 
 Sign in → deliberately open/create a plan → Add track with Now start and manual genre → see its automatically derived section → receive a cloud save acknowledgement → reload and restore. Add a track with an explicit early end and verify the real gap. Go offline, reopen a cached plan, add a track, reload, reconnect and save without duplicates or another account's data. Browse All tracks without opening an editor. Import the provided default set once as a new cloud plan, then export/restore a lossless backup.
+
+## R9 — Sticky section navigation (supersedes hip-hop annotation lanes)
+
+Remove dedicated In/Out annotation lanes and dotted intervals. Each proportional genre bar selects that section; retain large genre controls for narrow touch targets. On selection hide minute labels, retain whole-hour anchors, show only selected start/end evidence (ranges prefixed ~, unknown ending explicit) and scroll its heading below the sticky ruler. Full scale restores the default time labels. While All tracks or search/filter results scroll, mark the section at the top reading edge without changing results or saving data. Keep ruler sticky for the entire open plan; clean up observers on plan switch.
